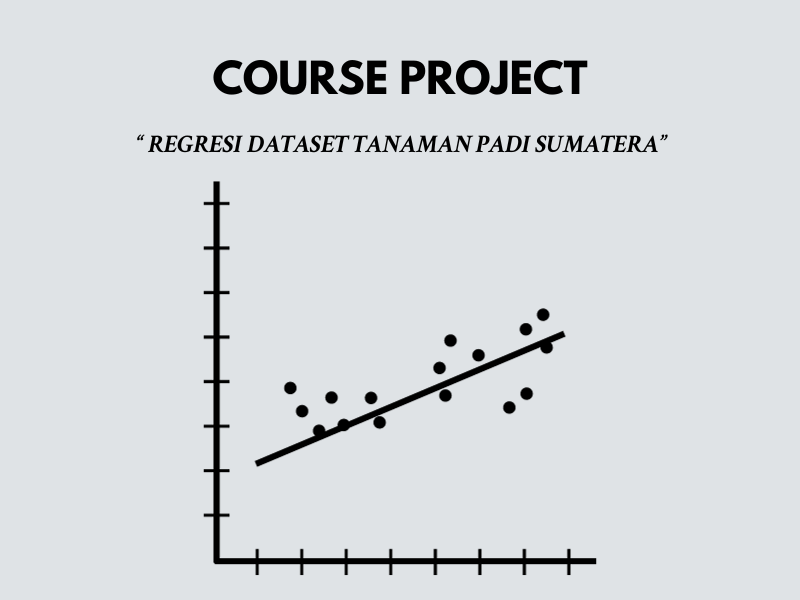
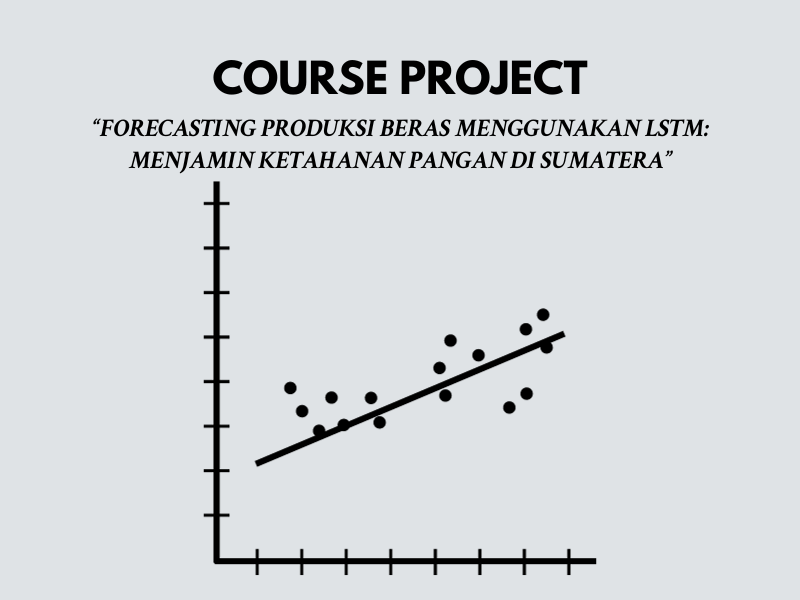
Update

Changed region(s): [[0.125, 0.18, 0.875, 0.3]]

diff --git a/index.html b/index.html
@@ -263,7 +263,7 @@
               <div class="portfolio-wrap">
                 <img src="assets/img/portfolio/portfolio-4.png" class="img-fluid" alt="" />
                 <div class="portfolio-links">
-                  <a href="assets/img/portfolio/portfolio-4.png" data-gallery="portfolioGallery" class="portfolio-lightbox" title="Project regresi pada dataset tanaman padi sumatera yang dikerjakan bersama tim."><i class="bx bx-plus"></i></a>
+                  <a href="assets/img/portfolio/portfolio-4.png" data-gallery="portfolioGallery" class="portfolio-lightbox" title="Project forecasting pada dataset tanaman padi sumatera yang dikerjakan bersama tim."><i class="bx bx-plus"></i></a>
                   <a href="https://github.com/aqilwahid/Regresi-Dataset-Tanaman-Padi-Sumatera" title="More Details"><i class="bx bx-link"></i></a>
                 </div>
               </div>
